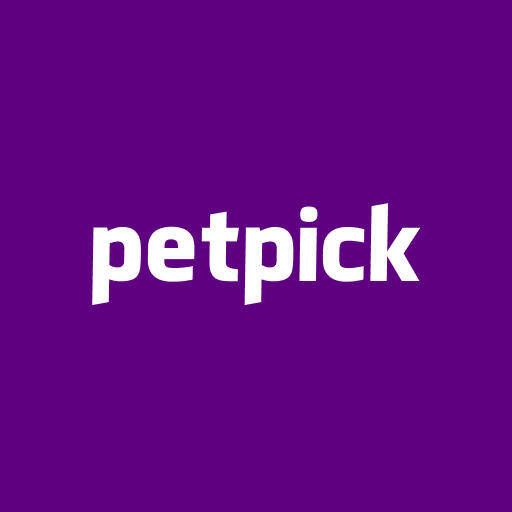
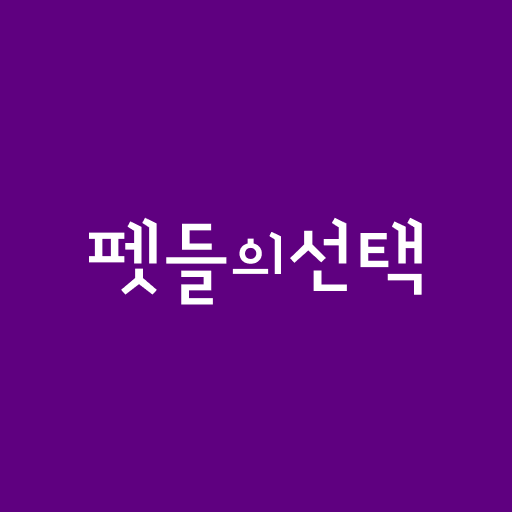
Edit - 앱 이름 변경과 로고 변경

Changed region(s): [[0.1562, 0.375, 0.8438, 0.5938]]

diff --git a/lib/src/config/constant/app_name.dart b/lib/src/config/constant/app_name.dart
@@ -1,3 +1,3 @@
 // ignore_for_file: constant_identifier_names
 
-const APP_NAME = '펫픽';
+const APP_NAME = '펫들의선택';
